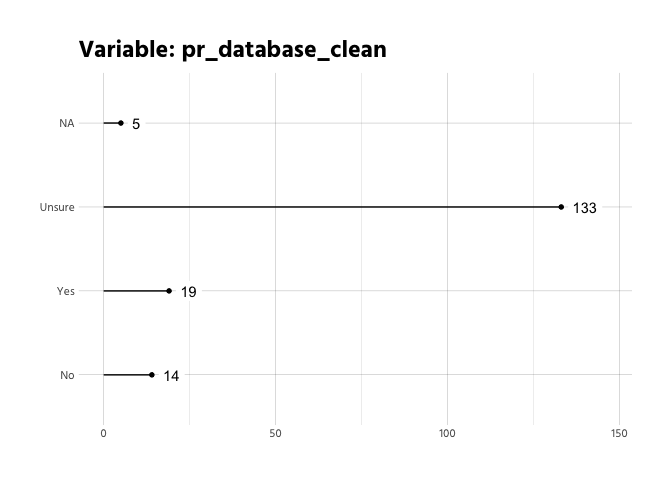
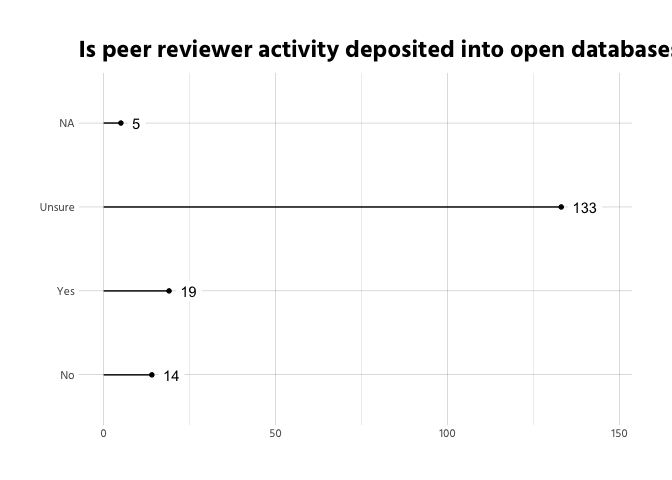
add general remarks and change add title to graph

Changed region(s): [[0.0938, 0.0625, 1.0, 0.125]]

diff --git a/analysis-scripts/11-overview.md b/analysis-scripts/11-overview.md
@@ -14,8 +14,12 @@ output:
 
 
 
+# Summary
+The general impression is, that the journals most of the time do not have a 
+specific policy regarding the aspect under question, or it was unclear for our
+reviewers if there was a policy or not or how to interpret it.
 
-# General overview
+# Missing data
 ![](11-overview_files/figure-html/unnamed-chunk-2-1.png)<!-- -->
 
 There is quite some missing data, which shouldn't be like this. For example
